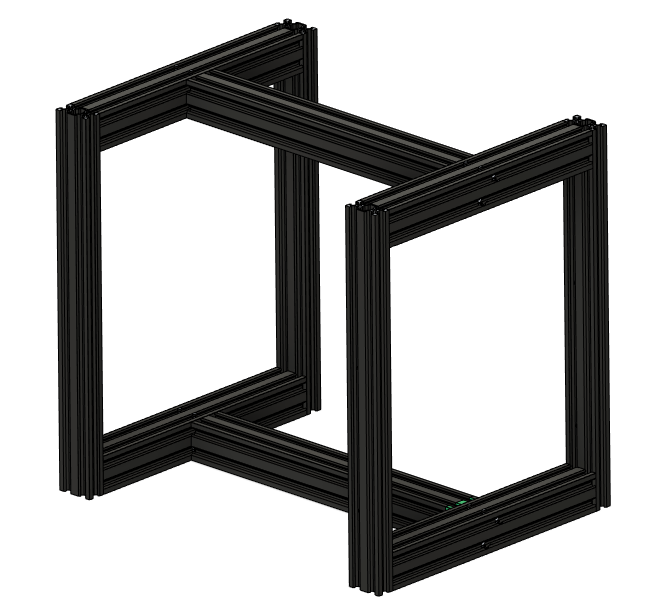
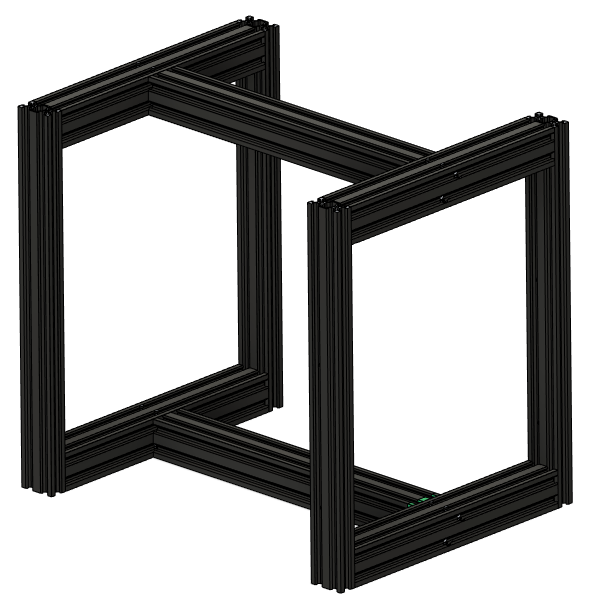
README.md updates
Removed whitespace from images
Added image of belt assembly
Added information about ender part reuse and about the belt assembly

Changed region(s): [[0.0305, 0.031, 0.9746, 0.9935]]

diff --git a/README.md b/README.md
@@ -10,21 +10,33 @@ There are currently no build instructions specific to Baby Panda, so but the [Vo
 
 If you have any questions, or want to see pictures and videos of builds, check out the #🐼baby-panda channel in the [Build Biome Discord server](https://discord.gg/SpCVg9wG). 
 
-### The Frame
+## Ender 3 Parts Reuse
+As mentioned above, one of the goals of this project is to repurpose parts from Ender 3s that are sitting around gathering dust. Some of the parts that can be reused include:
+* All base 4040 extrusions (Pro/V2)
+* Y 4040 extrusion (Pro\*)
+* 4020 extrusions (Pro/V2)
+* Power supply
+* Mainboards\**
+* Motors
+* Bed carriage
+* Heated bed
+* Some wiring
+
+\*V2 Y 4040 extrusion could be reused with spacers
+\*\*A total of 8 motors drivers are needed, but if you have 2 mainboards they can both be used
+
+## The Belt Assembly
+This assembly is the heart of the project. It adds one additional stepper motor to the BOM. There is nothing official released yet, but several people in the Discord are working on macros to make it work. The purpose of the belt is to eject printed parts automatically after printing so that another job can run immediately and without intervention. It is not intended to move during a print as X-Y movement is handled by the coreXY motion system.
+<p><img src="images/belt_assembly.png" width="600"></p>
+<p><em>Belt assembly</em></p>
+
+## The Frame
 The standard Baby Panda frame can be built entirely from extrusions salvaged from 2 Ender 3s. Ender 3 pro is ideal. 3V2 can work, but the Y extrusion is slightly shorter. This can be worked around using spacers or by buying a longer extrusion.
 
 <p><img src="images/standard_frame.png" width="350"></p>
 <p><em>Standard frame</em></p>
 
-<p>In the standard configuration, the 3 4040 extrusions from the base of one Ender form the base of the Baby Panda frame, and the base extrusions of the other Ender  form the top. The uprights from each ender, which will need to be drilled out for blind joints using the [jig](https://github.com/robwaldhauser/Baby-Panda/blob/main/STLs/Drilling%20Jig.stl) available in the CAD section, connect the top of the frame to the bottom in each corner.</p>
+<p>In the standard configuration, the 3 4040 extrusions from the base of one Ender form the base of the Baby Panda frame, and the base extrusions of the other Ender  form the top. The uprights from each ender, which will need to be drilled out for blind joints using the <a href="https://github.com/robwaldhauser/Baby-Panda/blob/main/STLs/Drilling%20Jig.stl">jig</a> available in the CAD section, connect the top of the frame to the bottom in each corner. Optionally, 2 additional 2020 extrusions can be installed for extra rigidity and to help enclose the printer.</p>
 
-<p>If desired, for additional rigidity and/or to facilitate enclosure of the printer, 2 additional 2020 extrusions can be purchased and installed in either of the following configurations:</p>
-
-<p><img src="images/standard_frame_plus_2_2020s.png" width="350"></p>
-<p><em>Standard frame with extra 2020</em></p>
-
-
-<p><img src="images/standard_frame_plus_2_2020s_less_top_4040_crossbar.png" width="350"></p>
-<p><em>Standard frame with 2020s replacing top 4040</em></p>
-
-
+<p><img src="images/standard_frame_plus_2_2020s.png" width="350"><img src="images/standard_frame_plus_2_2020s_less_top_4040_crossbar.png" width="350"></p>
+<p><em>A couple options for placement of additional 2020 extrusions</em></p>
